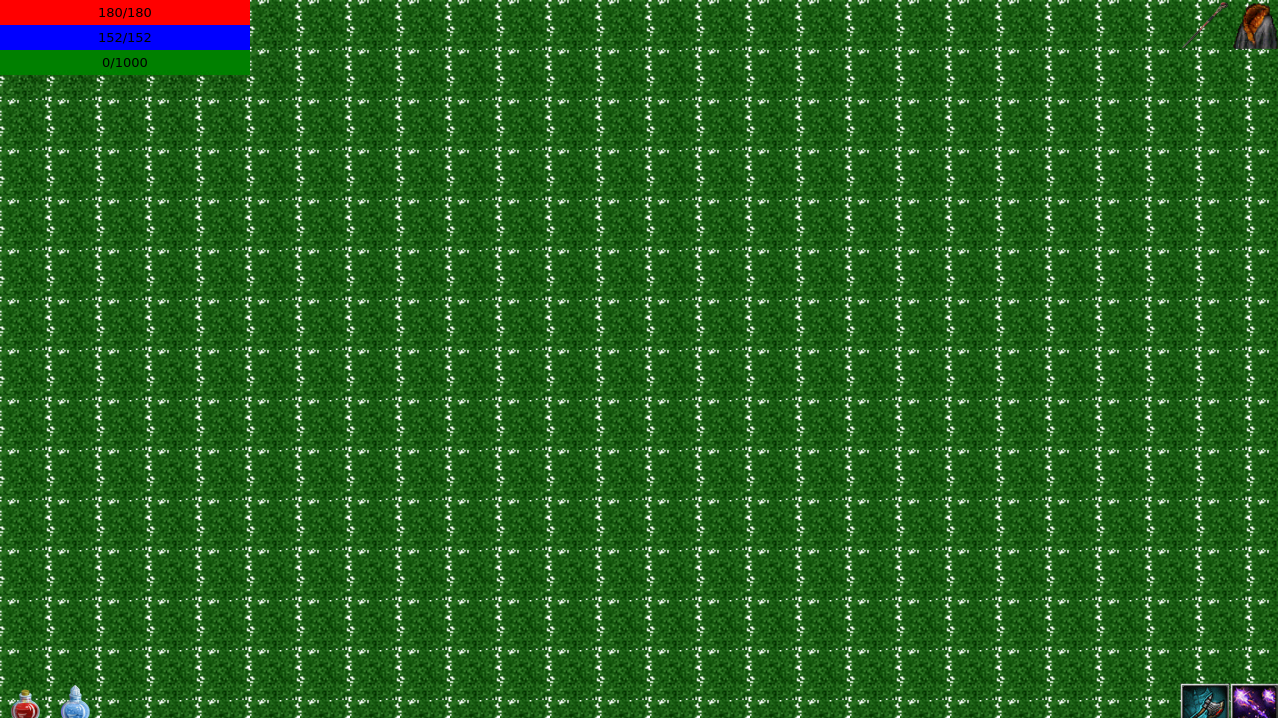
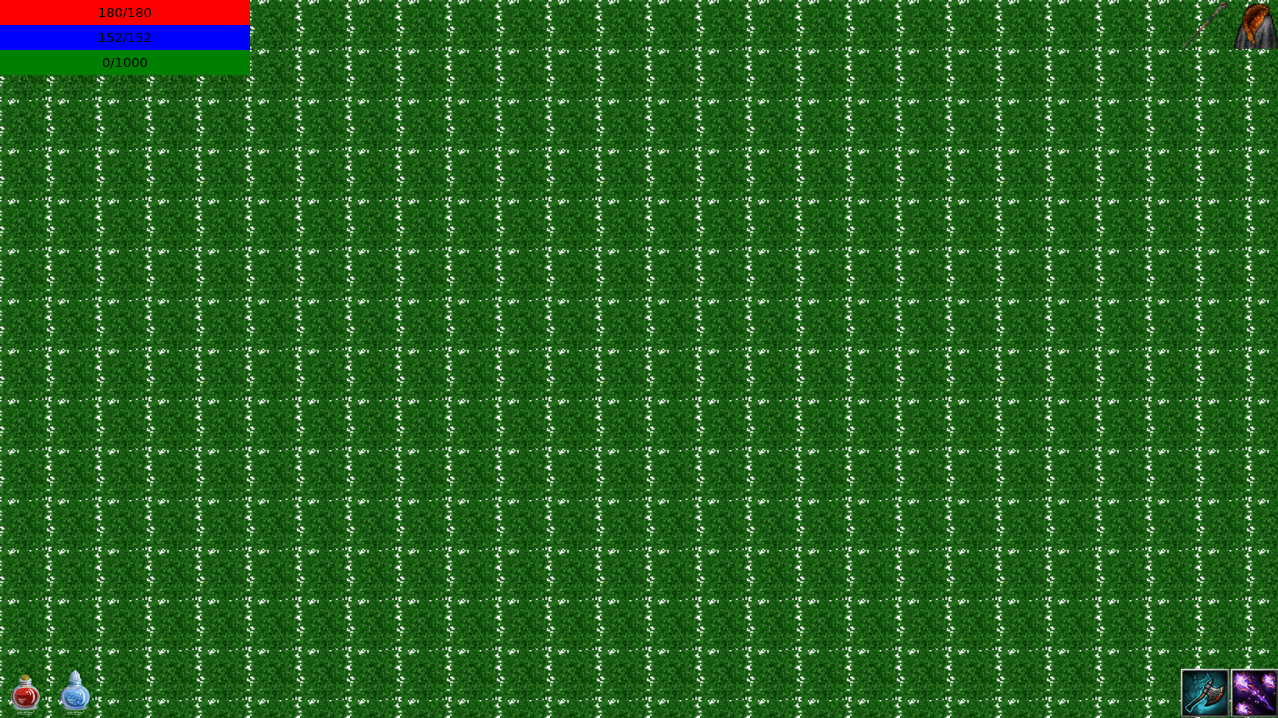
auto
Former-commit-id: 7d6f489c267b0304fb7461678228bbc092eecb25
Former-commit-id: 5f38887e290c8552186d1c1ffd47d8759b54b289

Recovered-from-commit: f4dc52d5b64b5d8255d31f820fc30ed7b4112ef3

Changed region(s): [[0.9155, 0.9192, 1.0, 1.0], [0.0, 0.9192, 0.0915, 1.0]]

diff --git a/view/listitem.cpp b/view/listitem.cpp
@@ -9,6 +9,9 @@ ListItem::ListItem()
 {
     statsView.setParentItem(this);
     statsView.setVisible(true);
+    statsView.setText(" ");
+    statsView.setPos(-this->mapToParent(0,0).x(),
+                     -statsView.boundingRect().height());
 }
 
 
@@ -55,7 +58,7 @@ void ListItem::mouseReleaseEvent(QGraphicsSceneMouseEvent *event)
 {
     if(event->button()==Qt::MouseButton::RightButton)
     {
-        statsView.setText("");
+        statsView.setText(" ");
         event->setAccepted(true);
     }
     else

diff --git a/items/item.cpp b/items/item.cpp
@@ -83,7 +83,10 @@ void Item::mousePressEvent(QGraphicsSceneMouseEvent *event)
         }
         else
         {
+            QGraphicsItem *parent=this->parentItem();
+            parent->setAcceptDrops(false);
             AnimatedObject::mousePressEvent(event);
+            parent->setAcceptDrops(true);
         }
     }
 }

diff --git a/view/playerlistview.cpp b/view/playerlistview.cpp
@@ -51,7 +51,10 @@ void PlayerListView::update()
 
 QRectF PlayerListView::boundingRect() const
 {
-    QRectF rect= childrenBoundingRect();
+    QRectF rect=childrenBoundingRect();
+    if(rect.width()<50||rect.height()<50) {
+        return QRectF(0,0,50,50);
+    }
     rect.setHeight(rect.height()-13);
     return rect;
 }

diff --git a/animation/animatedobject.h b/animation/animatedobject.h
@@ -13,7 +13,7 @@ class AnimatedObject : private QWidget,protected QGraphicsPixmapItem
 public:
     explicit AnimatedObject();
     ~AnimatedObject();
-    QPoint mapToParent(int a,int b);
+    QPointF mapToParent(int a,int b);
 protected:
     Animation *animation;
     void setPixmap(const QPixmap &pixmap);

diff --git a/animation/animatedobject.cpp b/animation/animatedobject.cpp
@@ -22,9 +22,9 @@ AnimatedObject::~AnimatedObject()
     }
 }
 
-QPoint AnimatedObject::mapToParent(int a, int b)
+QPointF AnimatedObject::mapToParent(int a, int b)
 {
-    return QWidget::mapToParent(QPoint(a,b));
+    return QGraphicsItem::mapToParent(QPointF(a,b));
 }
 
 

diff --git a/view/gameview.cpp b/view/gameview.cpp
@@ -8,7 +8,7 @@ void GameView::start()
     scene->startGame();
     scene->removeItem(&loading);
     init=true;
-    //showFullScreen();
+    showFullScreen();
     resize();
 }
 

diff --git a/README.md b/README.md
@@ -1,7 +1,7 @@
 # Recovered game snapshot
 
-Original commit: `e22a3a89543878620178ba23c15e0f6d2ac509df`. Original tree: `a3577b481a6de7135dd1fa8bbca4252f3b940a39`.
-Startup was verified from identical recovered sources at `e22a3a89543878620178ba23c15e0f6d2ac509df`.
+Original commit: `f4dc52d5b64b5d8255d31f820fc30ed7b4112ef3`. Original tree: `02cea0a89aadd0b8c948bb810d30b28524423b2f`.
+Startup was verified from identical recovered sources at `f4dc52d5b64b5d8255d31f820fc30ed7b4112ef3`.
 
 This recovered version compiled and linked on Linux, started the real game on an isolated Xvfb display,
 loaded its map and a healthy player, rendered the screenshot below, and exited normally.
@@ -48,10 +48,10 @@ The source call, source hash and created/preserved directory are recorded in ver
 compatibilityRepair: 1, exactOriginal: 43, reconstruction: 20.
 
 - `config/creatures.json`: content reconstruction of the BFG-removed original; carried nearest reconstructed config/creatures.json through API-stable #62; surviving files provide no recoverable internal implementation/data delta
-- `config/map.json`: unverified donor reconstruction; bf32a4c93e396bd645769a9957eacd6a75106b62:config/map.json; headerMatch=0; apiOverlap=0/10000; distance=47
+- `config/map.json`: unverified donor reconstruction; bf32a4c93e396bd645769a9957eacd6a75106b62:config/map.json; headerMatch=0; apiOverlap=0/10000; distance=46
 - `creatures/creature.cpp`: working reconstruction
 - `creatures/player.cpp`: working reconstruction
-- `images/buildings/dungeon/0.png`: unverified donor reconstruction; 71a3432e36b5649aabdd63c7807a78e9a8a3749a:images/buildings/dungeon/0.png; headerMatch=0; apiOverlap=0/10000; distance=79
+- `images/buildings/dungeon/0.png`: unverified donor reconstruction; 71a3432e36b5649aabdd63c7807a78e9a8a3749a:images/buildings/dungeon/0.png; headerMatch=0; apiOverlap=0/10000; distance=78
 - `images/loading.jpg`: synthesized visible 32px placeholder; original artwork unavailable; unverified
 - `images/tiles/grass/0.png`: unverified donor reconstruction; c049ac73064442354af6224d06fe1c8b847bb8d9:images/tiles/grass/0.png; headerMatch=0; apiOverlap=0/10000; distance=105 Verified by build and startup of afdd8069 (recovery/evidence/second-original).
 - `images/tiles/ground/0.png`: unverified donor reconstruction; c049ac73064442354af6224d06fe1c8b847bb8d9:images/tiles/ground/0.png; headerMatch=0; apiOverlap=0/10000; distance=105 Verified by build and startup of afdd8069 (recovery/evidence/second-original).
@@ -69,7 +69,7 @@ compatibilityRepair: 1, exactOriginal: 43, reconstruction: 20.
 - `stats/stats.cpp`: content reconstruction of the BFG-removed original; carried validated d30a3f79 stats reconstruction; #63 surviving Stats change only renames a loadFromJson parameter
 - `json/LICENSE`: https://github.com/open-source-parsers/jsoncpp/tree/4fce396c9d3e27a8ab8fb88e94c1676e021ae3a6 upstream distribution license
 
[2 lines of base64/hex data omitted]
 
 The restored source fingerprint identifies inputs before generation. The
 [source preparation metadata](recovery/source-preparation.json) records the original inputs
